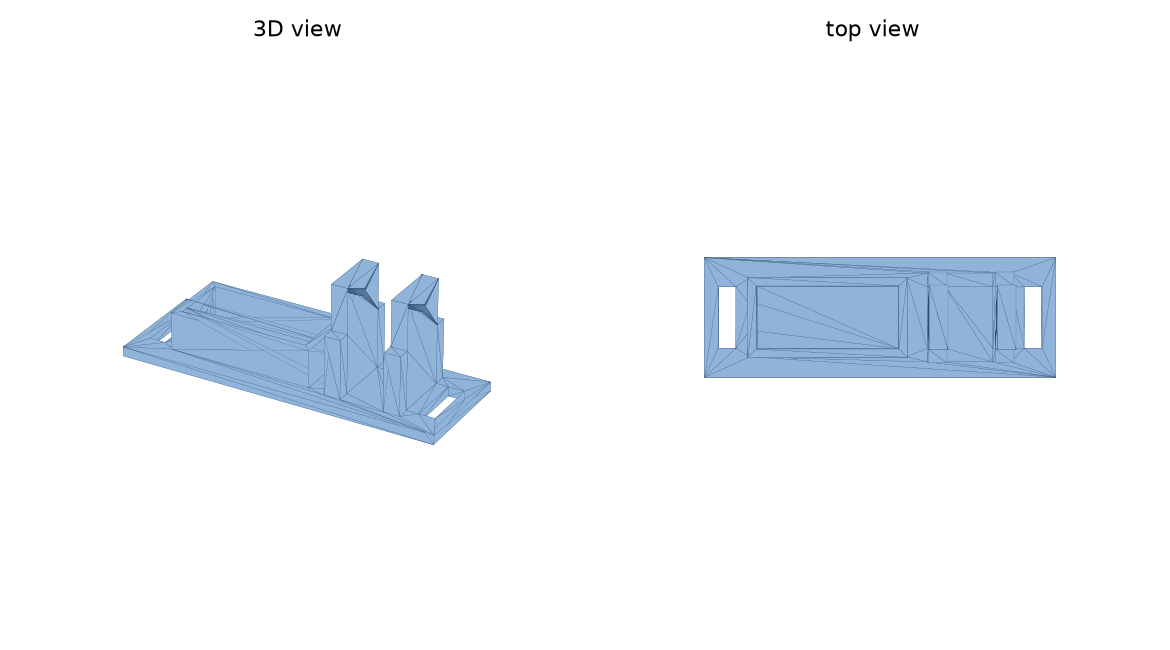
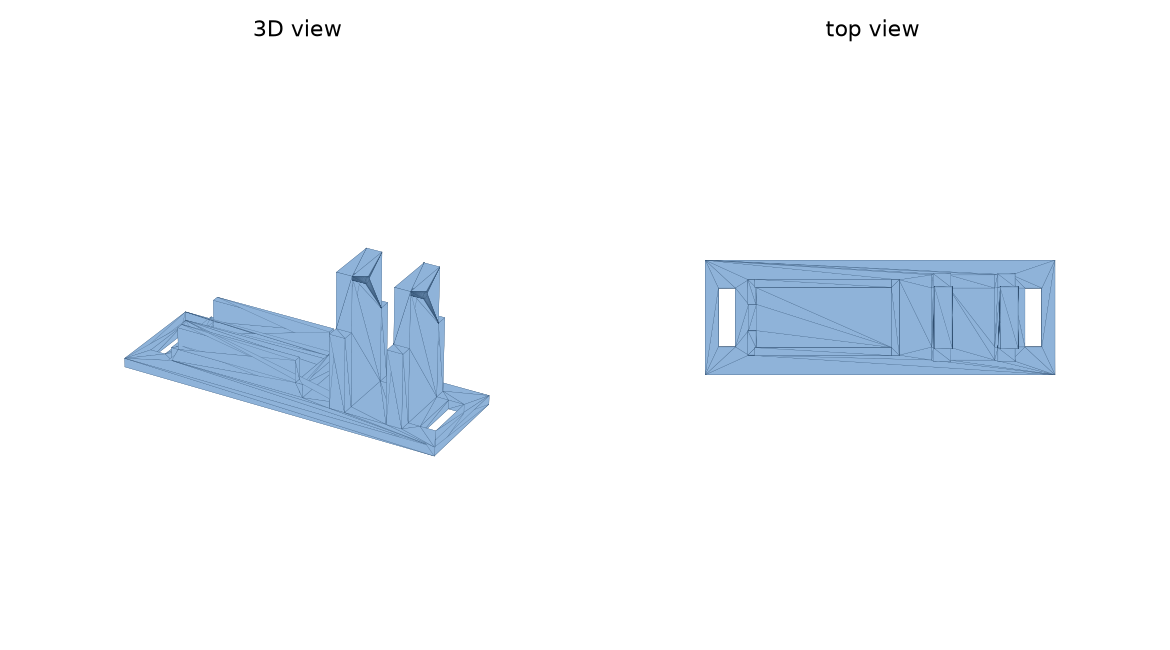
CAD: pin release resized to measured servo (25 mm to arm, 30 mm tab span, 20 mm arm)

Changed region(s): [[0.0923, 0.3692, 0.4308, 0.7077], [0.5846, 0.3692, 0.9231, 0.5846]]

diff --git a/cad/pin_release.py b/cad/pin_release.py
@@ -22,17 +22,19 @@ import trimesh
 from manifold3d import Manifold
 
 # ---- servo (GH-S37D 3.7 g -- typical values, MEASURE yours) -------------------------------------
-SERVO_L = 20.0        # body length (long side, along the pin)
+SERVO_L = 20.0        # body length without mounting tabs (measured 20 mm)
 SERVO_W = 8.5         # body width
-SERVO_H = 17.5        # body height from bottom to the top face the horn sits on (not counting the shaft)
+SERVO_H = 25.0        # base to the top of the output gear where the arm sits (measured 25 mm)
+TAB_SPAN = 30.0       # length across the mounting tabs (measured 30 mm)
+END_LIP = 3.0         # cradle end walls are only this tall, so the tabs clear them
 SHAFT_OFFSET = 5.0    # output shaft centre, measured from the body's END nearest the fins
-HORN_R = 8.0          # horn reach: shaft centre to the outermost hole you'll use
+HORN_R = 10.0         # half the arm length (arm measured 20 mm across)
 
 # ---- pin and payload ---------------------------------------------------------------------------
 PIN_D = 2.0           # pin diameter (paper clip ~1.0, steel rod 2.0, bamboo skewer ~2.5)
 PIN_CLEAR = 0.35      # hole is PIN_D + this (sliding fit)
 LOOP_GAP = 7.0        # space between the fins where the payload loop hangs
-PIN_Z = SERVO_H + 1.5 # pin height above the plate (≈ horn height so the wire link is straight)
+PIN_Z = SERVO_H + 0.5 # pin height above the plate (≈ arm height so the wire link is straight)
 
 # ---- printing ----------------------------------------------------------------------------------
 CLEAR = 0.3           # servo pocket clearance per side
@@ -64,7 +66,7 @@ def x_hole(x0, x1, y, z, d):
 in_l, in_w = SERVO_L + 2 * CLEAR, SERVO_W + 2 * CLEAR
 cr_x0, cr_x1 = 0.0, in_l + 2 * WALL
 shaft_x = cr_x1 - WALL - CLEAR - SHAFT_OFFSET
-fin1_x0 = max(cr_x1 + 1.0, shaft_x + HORN_R + 1.5)          # horn must clear fin1 when it swings
+fin1_x0 = max(cr_x1 + 1.0, shaft_x + HORN_R + 1.5, cr_x0 + WALL + CLEAR + SERVO_L / 2 + TAB_SPAN / 2 + 1.0)  # clear horn swing + tab
 fin1_x1 = fin1_x0 + FIN_T
 fin2_x0 = fin1_x1 + LOOP_GAP
 fin2_x1 = fin2_x0 + FIN_T
@@ -77,6 +79,8 @@ for sx in (px0 + 2.0, px1 - 2.0 - SLOT[0]):                  # strap slots at bo
 
 cradle = box(cr_x0, cr_x1, -in_w / 2 - WALL, in_w / 2 + WALL, 0, PLATE_T + CRADLE_H)
 cradle -= box(cr_x0 + WALL, cr_x1 - WALL, -in_w / 2, in_w / 2, PLATE_T, PLATE_T + CRADLE_H + 1)
+for ex0, ex1 in ((cr_x0 - 1, cr_x0 + WALL + 0.01), (cr_x1 - WALL - 0.01, cr_x1 + 1)):   # low end walls: tabs pass over
+    cradle -= box(ex0, ex1, -in_w / 2 - WALL - 1, in_w / 2 + WALL + 1, PLATE_T + END_LIP, PLATE_T + CRADLE_H + 1)
 cradle -= box(cr_x0 - 1, cr_x0 + WALL + 1, -2.0, 2.0, PLATE_T, PLATE_T + 4.0)   # wire exit notch (far end)
 
 pin_z = PLATE_T + PIN_Z
